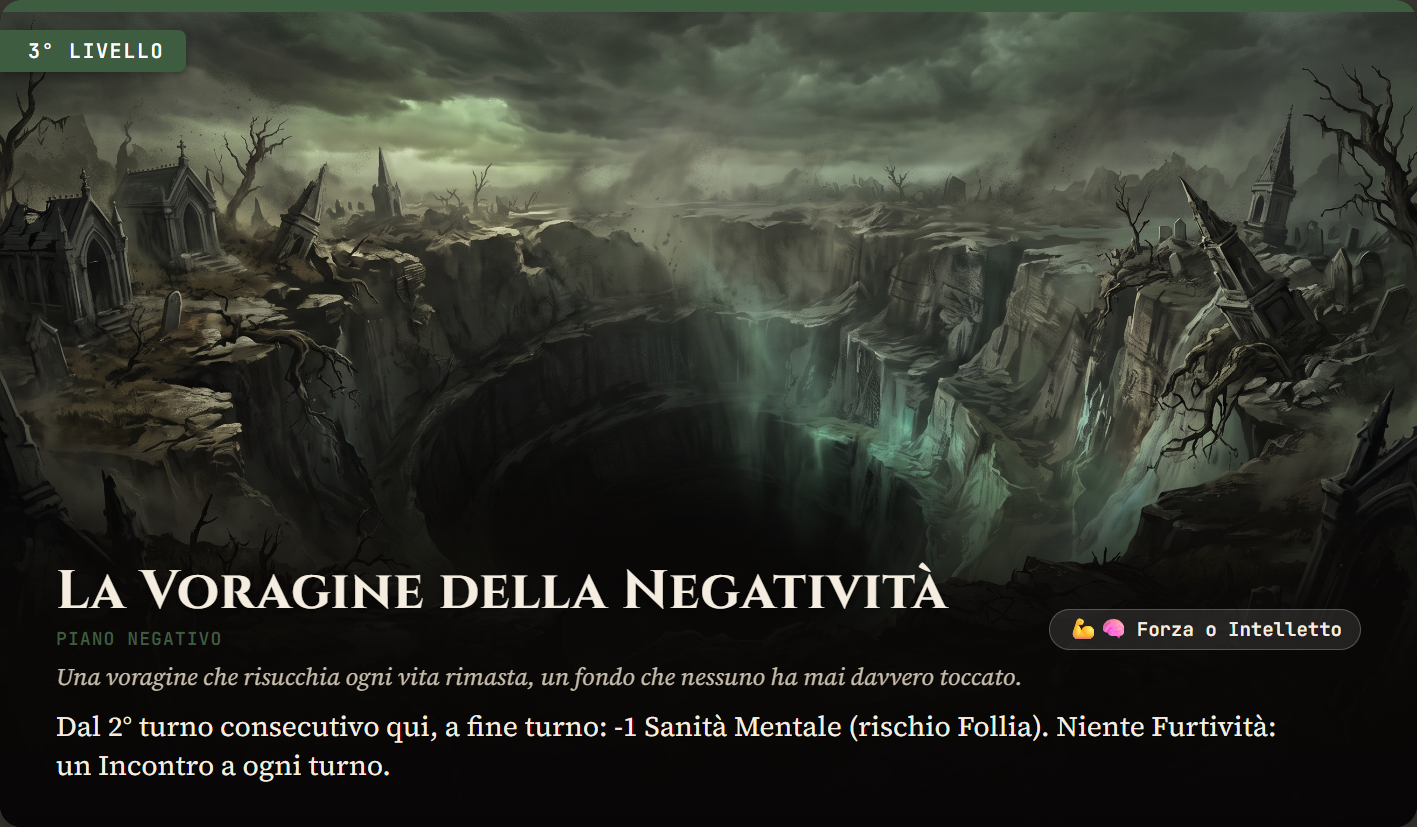
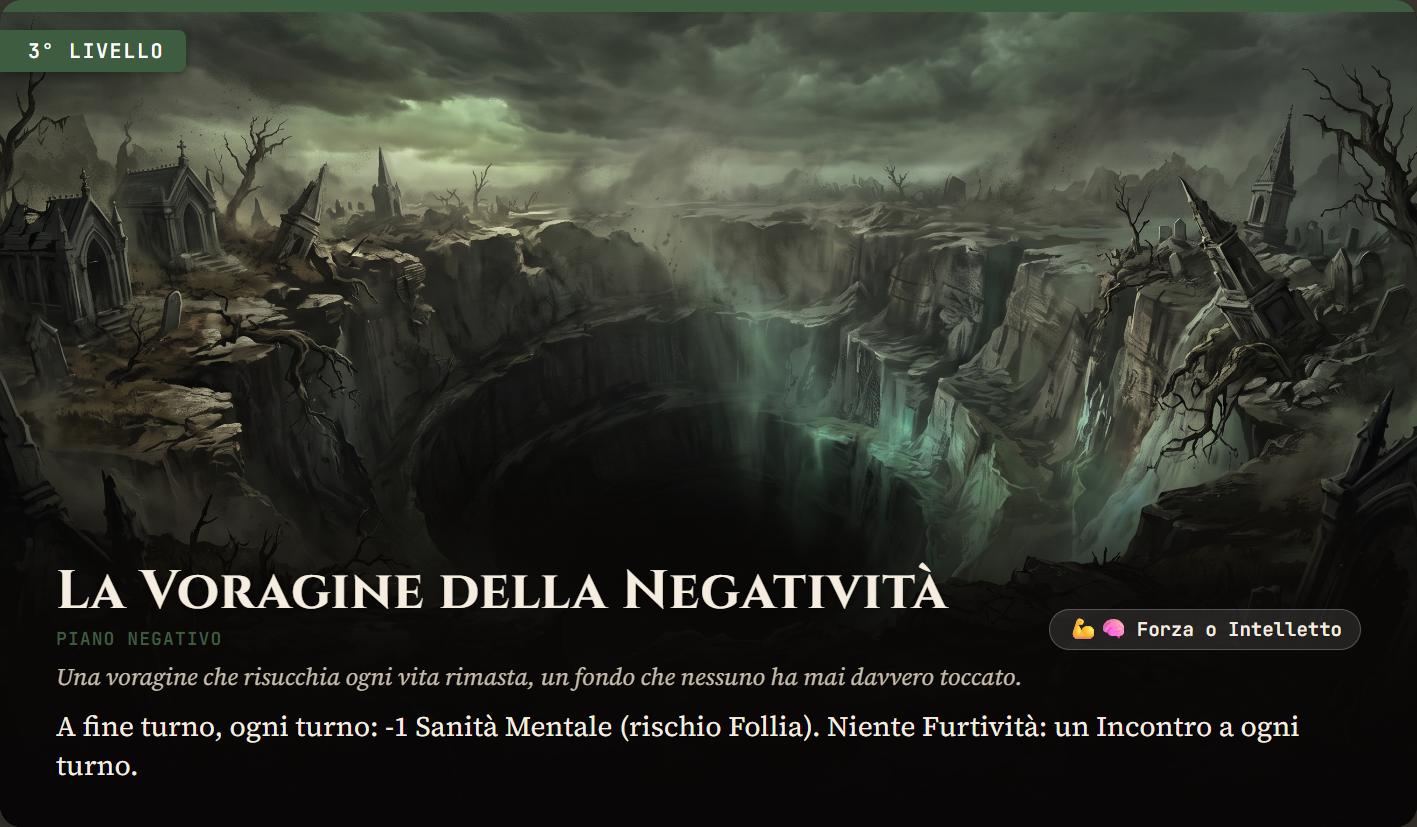
Piano Negativo (girone 2+): la perdita di Sanità scatta dal primo turno
L'utente ha corretto la regola precedente: non più "dal 2° turno
consecutivo", ma ad ogni fine turno fin da subito su Velo dei
Sussurri e Voragine della Negatività (girone 2 e 3) — coerente con
Demoniaco, dove la perdita di Anima scatta già da girone>=2 senza
richiedere permanenza prolungata.

hasFineTurnoRisk() e applyFineTurnoIfNeeded() ora usano
plane.family==='nonmorti' && plane.girone>=2 al posto del contatore
state.turnConsecutive — Palude Sconsacrata (girone 1, nessuna perdita
di Sanità nel suo testo) resta correttamente esente. Aggiunto anche un
messaggio d'ingresso più chiaro per queste due carte al posto del
generico "nessun effetto automatico", che suggeriva erroneamente che
il piano non facesse nulla. Testo di entrambe le carte aggiornato e
ricomposte le illustrazioni (arte già in cards_raw dalla sessione
precedente).

Verificato dal vivo: Velo dei Sussurri al PRIMO turno (nessuna
permanenza pregressa) applica comunque -1 Sanità a fine combattimento;
Palude Sconsacrata (girone 1) resta senza rischio, come da testo.

Changed region(s): [[0.0311, 0.8464, 0.9315, 0.9371]]

diff --git a/index.html b/index.html
@@ -335,8 +335,8 @@ const PIANI = [
   P("baratro_in_fiamme","Il Baratro in Fiamme (Demoniaco, 2° girone)","demoniaco","for_or_int",false,"Si perde passivamente 1 Anima solo per esserci passati (Corruzione). Niente Furtività: un Incontro a ogni turno, senza eccezioni.",null,{girone:2}),
   P("gelo_dellabisso","Il Gelo dell'Abisso (Demoniaco, 3° girone)","demoniaco","for_or_int",false,"Si perde passivamente 1 Anima solo per esserci passati (Corruzione). Niente Furtività: un Incontro a ogni turno, senza eccezioni.",null,{girone:3}),
   P("palude_sconsacrata","La Palude Sconsacrata (Piano Negativo, 1°)","nonmorti","for_or_int",false,"Niente Furtività: si affronta un Incontro a ogni turno, senza eccezioni.",null,{girone:1}),
-  P("velo_dei_sussurri","Il Velo dei Sussurri (Piano Negativo, 2°)","nonmorti","for_or_int",false,"Dal 2° turno consecutivo qui, a fine turno: -1 Sanità Mentale (rischio Follia). Niente Furtività: un Incontro a ogni turno.",null,{girone:2}),
-  P("voragine_della_negativita","La Voragine della Negatività (Piano Negativo, 3°)","nonmorti","for_or_int",false,"Dal 2° turno consecutivo qui, a fine turno: -1 Sanità Mentale (rischio Follia). Niente Furtività: un Incontro a ogni turno.",null,{girone:3}),
+  P("velo_dei_sussurri","Il Velo dei Sussurri (Piano Negativo, 2°)","nonmorti","for_or_int",false,"A fine turno, ogni turno: -1 Sanità Mentale (rischio Follia). Niente Furtività: un Incontro a ogni turno.",null,{girone:2}),
+  P("voragine_della_negativita","La Voragine della Negatività (Piano Negativo, 3°)","nonmorti","for_or_int",false,"A fine turno, ogni turno: -1 Sanità Mentale (rischio Follia). Niente Furtività: un Incontro a ogni turno.",null,{girone:3}),
 ];
 const PIANI_BY_ID = Object.fromEntries(PIANI.map(p=>[p.id,p]));
 const RECUPERO_PLANES = new Set(PIANI.filter(p=>p.recupero).map(p=>p.id));
@@ -1547,6 +1547,7 @@ function applyPlaneIntrinsic(plane){
   } else {
     const fn = PLANE_EFFECTS[plane.effectKey];
     if(fn) fn(plane, acts, ctx);
+    else if(plane.family==='nonmorti' && plane.girone>=2) logMsg(`🧠 ${plane.name}: la mente comincia subito a logorarsi, si rischia la Follia a fine turno.`,'warn');
     else logMsg(`(Nessun effetto d'ingresso automatico per ${plane.name} — applica manualmente se necessario.)`);
   }
   if(RECUPERO_PLANES.has(plane.id) && acts.length){
@@ -2757,7 +2758,7 @@ const FINE_TURNO_PLANES = new Set(['veleno','tempesta']);
 function hasFineTurnoRisk(plane){
   if(!plane) return false;
   if(FINE_TURNO_PLANES.has(plane.id)) return true;
-  if(plane.family==='nonmorti' && (state.turnConsecutive[plane.id]||1)>=2) return true;
+  if(plane.family==='nonmorti' && plane.girone>=2) return true;
   return false;
 }
 function applyFineTurnoIfNeeded(){
@@ -2773,8 +2774,8 @@ function applyFineTurnoIfNeeded(){
     const v=acts[Math.floor(Math.random()*acts.length)];
     applyDamage(v,'pv',1,ctx);
     logMsg(`⚡ Tempesta: fulmine a fine turno su ${v.name}.`,'warn');
-  } else if(plane.family==='nonmorti'){
-    logMsg('🧠 Piano Negativo: la permanenza prolungata logora la mente, a fine turno il gruppo presente rischia la Follia.','warn');
+  } else if(plane.family==='nonmorti' && plane.girone>=2){
+    logMsg('🧠 Piano Negativo: la mente si logora, a fine turno il gruppo presente rischia la Follia.','warn');
     acts.forEach(c=>applySanLoss(c,1));
   }
 }
